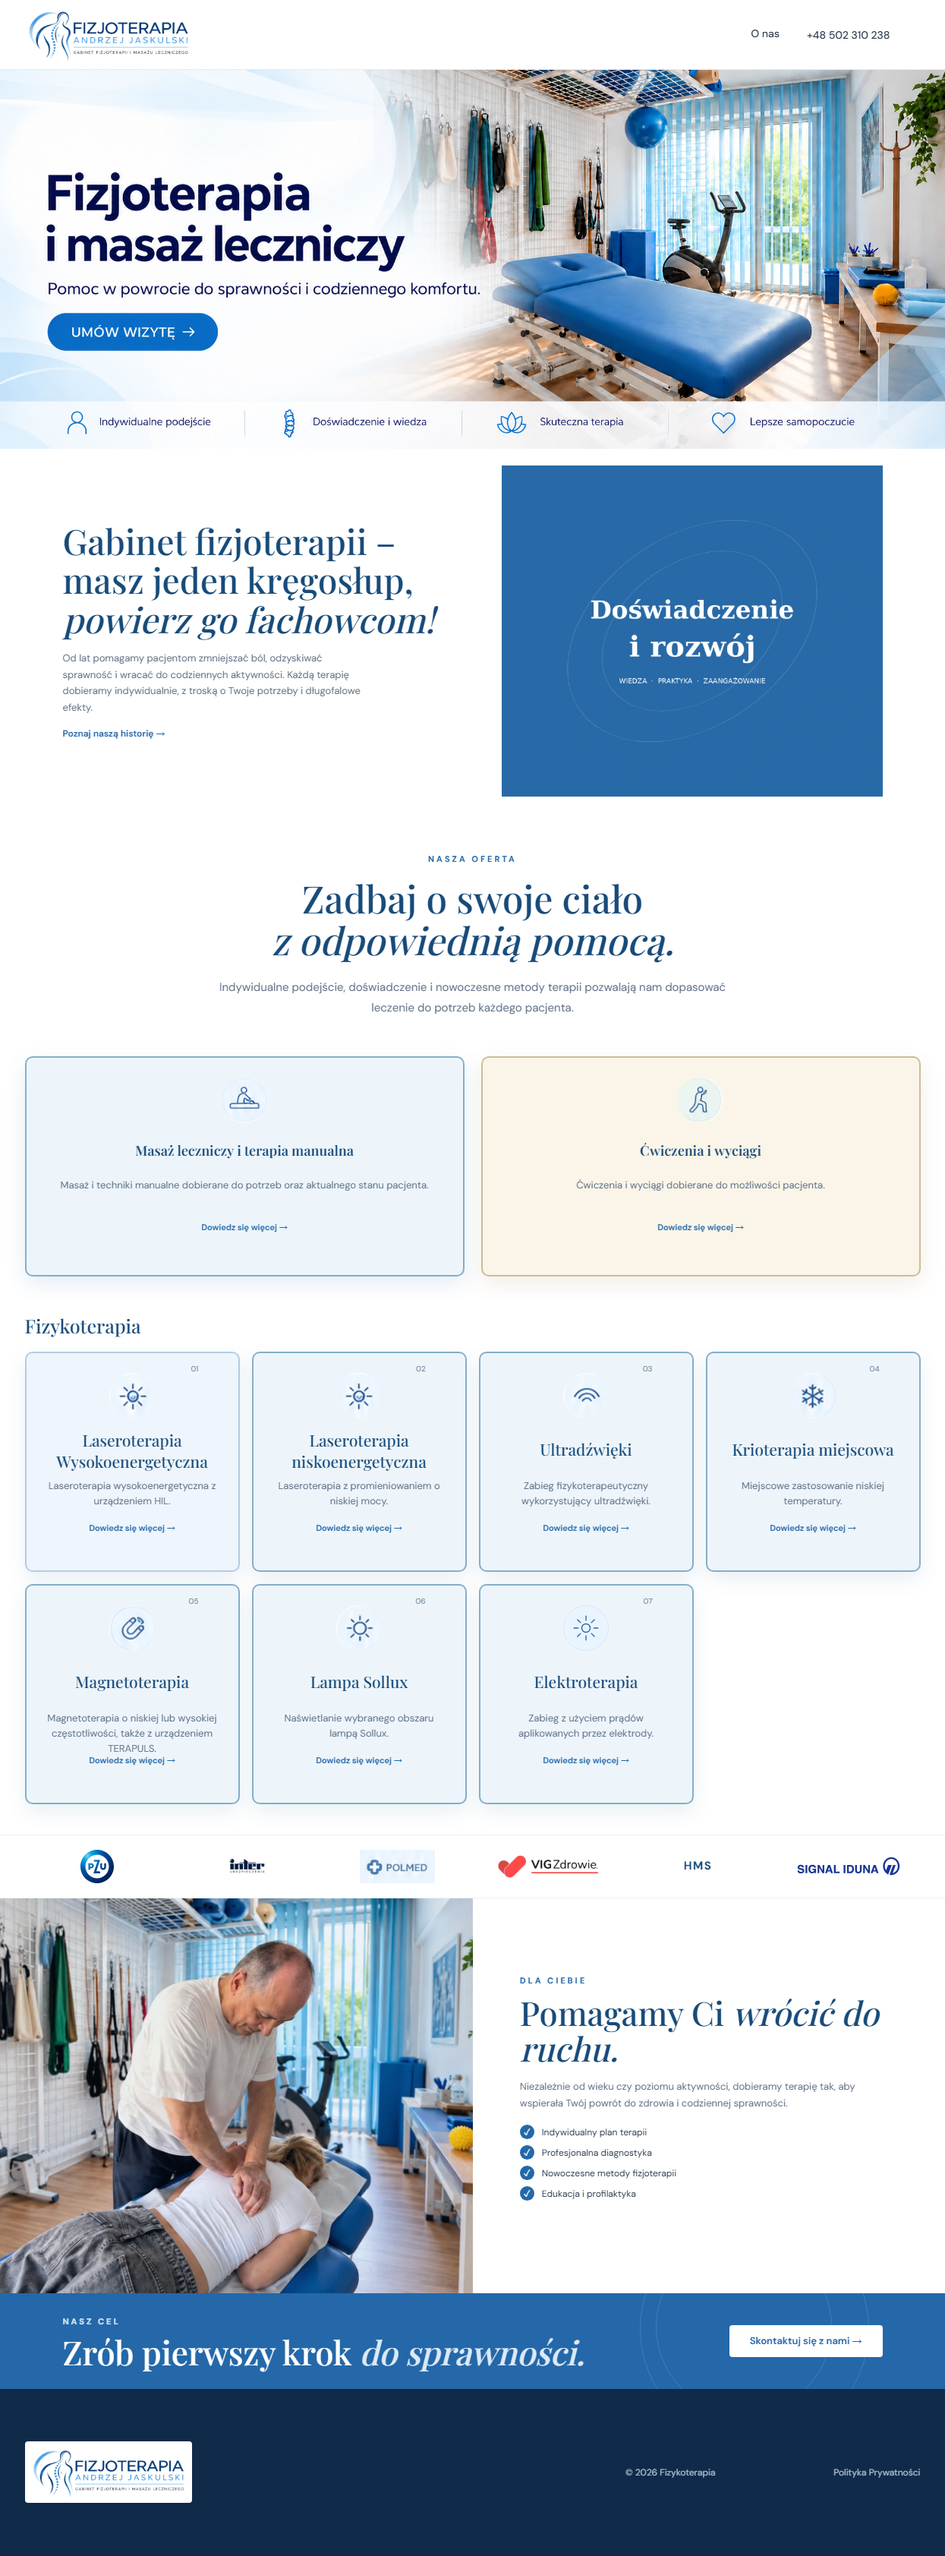
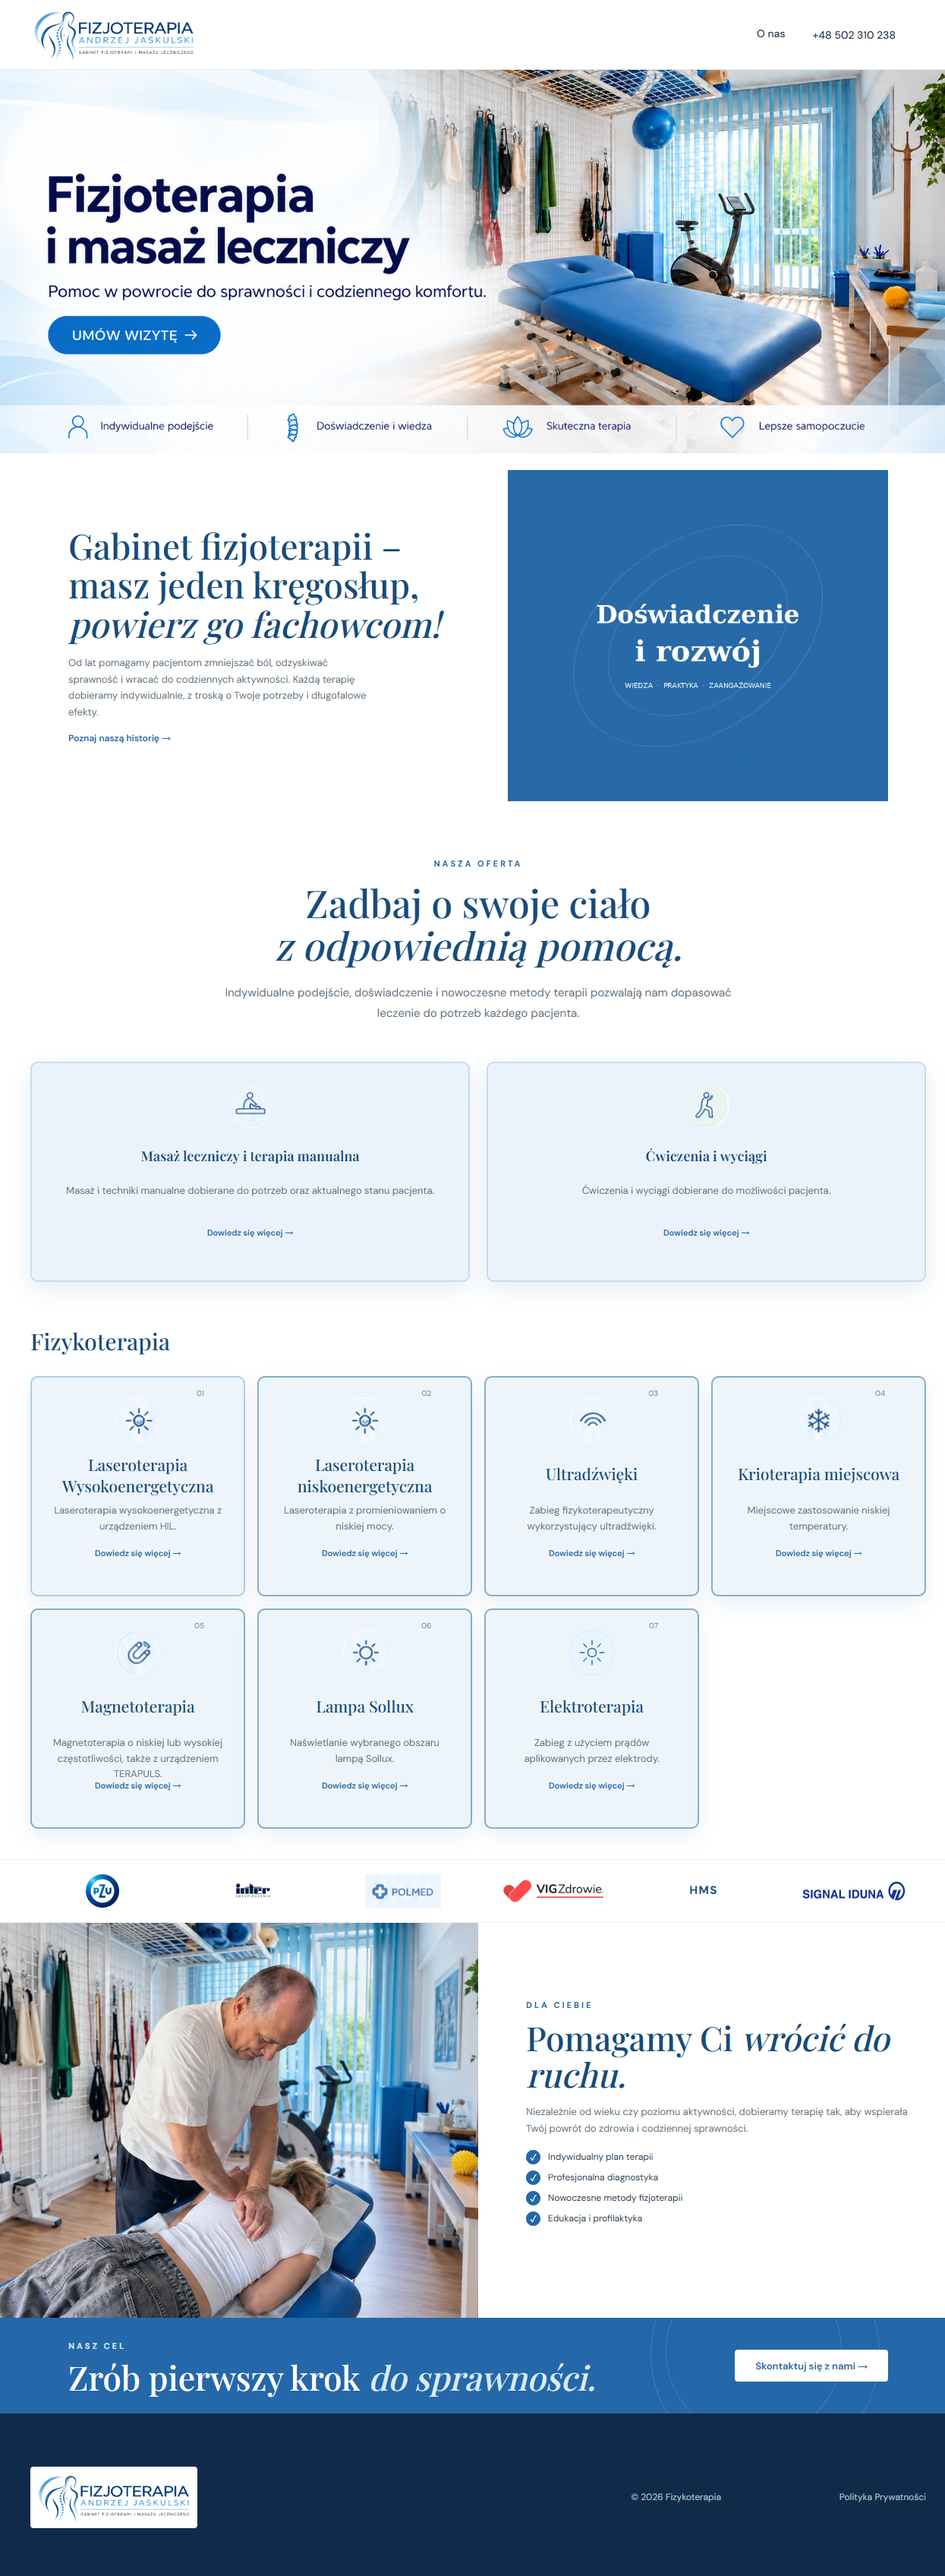
2

diff --git a/.html/css/style.css b/.html/css/style.css
@@ -1631,10 +1631,15 @@ body.home-page .service-group--hil-feature .service-group-grid .service-card-2 {
 }
 
 body.home-page .service-group--physical {
-    padding: 26px 0 0;
+    padding: 32px 0 0;
     border: 0;
     border-radius: 0;
     background: transparent;
+}
+
+body.home-page .service-group--physical .service-group-title {
+    margin: 4px 0 26px;
+    font-size: 30px;
 }
 
 body.home-page .service-group--physical .service-group-grid .service-card-2 {
@@ -1783,7 +1788,12 @@ body.home-page .service-info-dialog .button {
 
 @media (max-width: 600px) {
     body.home-page .service-group--physical {
-        padding-top: 22px;
+        padding-top: 28px;
+    }
+
+    body.home-page .service-group--physical .service-group-title {
+        margin-bottom: 22px;
+        font-size: 26px;
     }
 
     body.home-page .service-info-dialog {
@@ -2627,15 +2637,15 @@ body.home-page .service-groups .service-group-grid .service-card-2 {
 }
 
 body.home-page .service-group--massage-manual .service-group-grid .service-card-2 {
-    border-color: #86aec8;
-    background: #edf5fb;
+    border-color: #c9dced;
+    background: #eaf3fb;
     box-shadow: 0 10px 28px rgba(36, 104, 169, .12);
 }
 
 body.home-page .service-group--exercise .service-group-grid .service-card-2 {
-    border-color: #cdbd94;
-    background: #faf5e8;
-    box-shadow: 0 10px 28px rgba(153, 108, 54, .12);
+    border-color: #c9dced;
+    background: #eaf3fb;
+    box-shadow: 0 10px 28px rgba(36, 104, 169, .12);
 }
 
 body.home-page .service-group--hil-feature .service-group-grid .service-card-2 {

diff --git a/.html/index.html b/.html/index.html
@@ -9,7 +9,7 @@
     <link rel="preconnect" href="https://fonts.gstatic.com" crossorigin>
     <link href="https://fonts.googleapis.com/css2?family=DM+Sans:wght@400;500;600;700&family=Playfair+Display:wght@500;600;700&display=swap" rel="stylesheet">
 
-    <link rel="stylesheet" href="css/style.css?v=4">
+    <link rel="stylesheet" href="css/style.css?v=5">
 </head>
 
 <body class="home-page">
